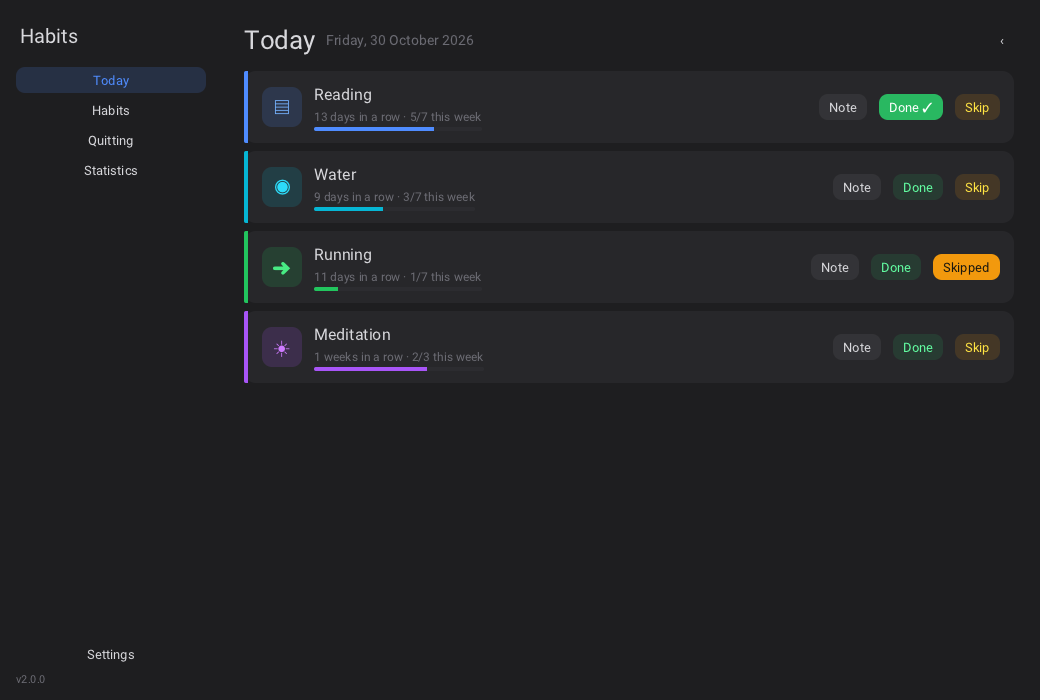
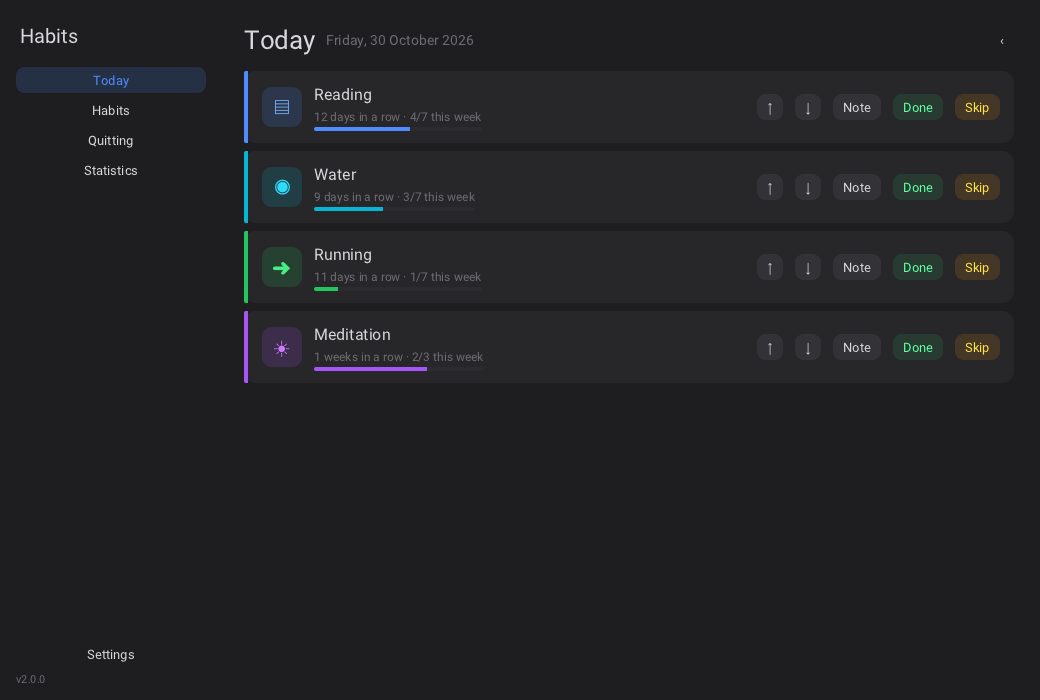
Fix reordering and add it to Today and Quitting
The lists were rendered in the order of the arrays inside the database, so
changing sort_order had no visible effect. They are now sorted, and the move
buttons follow the visible order (Today swaps with its visible neighbour).
Quitting gets its own db_quit_move/db_quit_swap and the same arrows.

Changed region(s): [[0.7692, 0.36, 0.9846, 0.42], [0.8, 0.12, 0.9231, 0.18], [0.4, 0.18, 0.4308, 0.21]]

diff --git a/src/desktop/main.c b/src/desktop/main.c
@@ -396,6 +396,13 @@ static void schedule_text(const Habit *h, char *out, size_t cap) {
     }
 }
 
+static int quit_cmp(const void *a, const void *b) {
+    const Quit *qa = *(const Quit *const *)a;
+    const Quit *qb = *(const Quit *const *)b;
+    if (qa->sort_order != qb->sort_order) return qa->sort_order < qb->sort_order ? -1 : 1;
+    return qa->id < qb->id ? -1 : (qa->id > qb->id ? 1 : 0);
+}
+
 static int habit_cmp(const void *a, const void *b) {
     const Habit *ha = *(const Habit *const *)a;
     const Habit *hb = *(const Habit *const *)b;
@@ -405,6 +412,10 @@ static int habit_cmp(const void *a, const void *b) {
 
 static void on_toggle_done(Rid button, void *ud);
 static void on_note(Rid button, void *ud);
+static void on_today_move_up(Rid button, void *ud);
+static void on_today_move_down(Rid button, void *ud);
+static void on_quit_move_up(Rid button, void *ud);
+static void on_quit_move_down(Rid button, void *ud);
 static void on_toggle_skip(Rid button, void *ud);
 
 static void on_prev_day(Rid b, void *ud) {
@@ -428,6 +439,20 @@ static void on_today(Rid b, void *ud) {
     (void)ud;
     g_app.date = date_today();
     rebuild();
+}
+
+static const Habit **today_sorted(size_t *count) {
+    const Habit **items = xmalloc((g_app.db.nhabits + 1) * sizeof *items);
+    size_t n = 0;
+    for (size_t i = 0; i < g_app.db.nhabits; i++) {
+        Habit *h = &g_app.db.habits[i];
+        if (h->archived) continue;
+        if (!sched_show_in_today(h, g_app.date)) continue;
+        items[n++] = h;
+    }
+    qsort(items, n, sizeof *items, habit_cmp);
+    *count = n;
+    return items;
 }
 
 static Rid habit_row(const Habit *h) {
@@ -471,6 +496,14 @@ static Rid habit_row(const Habit *h) {
     int is_done = entry && entry->status == ENTRY_DONE;
     int is_skipped = entry && entry->status == ENTRY_SKIPPED;
 
+    Rid up = ui_button("↑", on_today_move_up, (void *)(intptr_t)h->id);
+    Rid down = ui_button("↓", on_today_move_down, (void *)(intptr_t)h->id);
+    Rwidget_set_size(up, 26.0f, 26.0f);
+    Rwidget_set_size(down, 26.0f, 26.0f);
+    Rwidget_set_tooltip(up, "Move up");
+    Rwidget_set_tooltip(down, "Move down");
+    add_center(col, up);
+    add_center(col, down);
     add_center(col, ui_button("Note", on_note, (void *)(intptr_t)h->id));
 
     add_center(col, pill_button(is_done ? "Done ✓" : "Done", 0.16f, 0.72f, 0.38f, is_done,
@@ -529,15 +562,8 @@ static void build_today(Rid root) {
         Rwidget_add_child(head, ui_flat_button("Today", on_today, NULL));
     Rwidget_add_child(root, head);
 
-    const Habit **items = xmalloc((g_app.db.nhabits + 1) * sizeof *items);
     size_t n = 0;
-    for (size_t i = 0; i < g_app.db.nhabits; i++) {
-        Habit *h = &g_app.db.habits[i];
-        if (h->archived) continue;
-        if (!sched_show_in_today(h, g_app.date)) continue;
-        items[n++] = h;
-    }
-    qsort(items, n, sizeof *items, habit_cmp);
+    const Habit **items = today_sorted(&n);
 
     Rid scroll = Rwidget_create(R_WIDGET_SCROLL_BOX);
     Rslot_set_fill(scroll, 1.0f);
@@ -596,9 +622,13 @@ static void build_quitting(Rid root) {
     Rwidget_add_child(scroll, list);
 
     int64_t now = now_epoch();
-    for (size_t i = 0; i < g_app.db.nquits; i++) {
-        Quit *q = &g_app.db.quits[i];
-        if (q->archived) continue;
+    Quit **order = xmalloc((g_app.db.nquits + 1) * sizeof *order);
+    size_t nq = 0;
+    for (size_t i = 0; i < g_app.db.nquits; i++)
+        if (!g_app.db.quits[i].archived) order[nq++] = &g_app.db.quits[i];
+    qsort(order, nq, sizeof *order, quit_cmp);
+    for (size_t k = 0; k < nq; k++) {
+        Quit *q = order[k];
 
         Rid content;
         Rid card = ui_card_acc(q->color, &content);
@@ -620,6 +650,14 @@ static void build_quitting(Rid root) {
         Rwidget_add_child(col, ui_muted(best_text, 12.0f));
         add_center(content, col);
         Rwidget_add_child(content, ui_spacer());
+        Rid up = ui_button("↑", on_quit_move_up, (void *)(intptr_t)q->id);
+        Rid down = ui_button("↓", on_quit_move_down, (void *)(intptr_t)q->id);
+        Rwidget_set_size(up, 26.0f, 26.0f);
+        Rwidget_set_size(down, 26.0f, 26.0f);
+        Rwidget_set_tooltip(up, "Move up");
+        Rwidget_set_tooltip(down, "Move down");
+        add_center(content, up);
+        add_center(content, down);
         add_center(content, ui_button("Relapsed", on_quit_reset, (void *)(intptr_t)q->id));
         add_center(content, ui_button("Edit", on_edit_quit, (void *)(intptr_t)q->id));
         add_center(content, ui_danger_button("Delete", on_delete_quit, (void *)(intptr_t)q->id));
@@ -631,6 +669,7 @@ static void build_quitting(Rid root) {
         }
         Rwidget_add_child(list, card);
     }
+    free(order);
     Rwidget_add_child(root, scroll);
 
     if (g_app.quit_timer) Rtimer_destroy(g_app.quit_timer);
@@ -958,6 +997,50 @@ static void on_move_down(Rid button, void *ud) {
     }
 }
 
+static void today_move(int64_t id, int delta) {
+    size_t n = 0;
+    const Habit **items = today_sorted(&n);
+    size_t pos = n;
+    for (size_t i = 0; i < n; i++)
+        if (items[i]->id == id) {
+            pos = i;
+            break;
+        }
+    long target = (long)pos + delta;
+    if (pos != n && target >= 0 && target < (long)n &&
+        db_habit_swap(&g_app.db, id, items[target]->id)) {
+        save_db();
+        rebuild();
+    }
+    free(items);
+}
+
+static void on_today_move_up(Rid button, void *ud) {
+    (void)button;
+    today_move((int64_t)(intptr_t)ud, -1);
+}
+
+static void on_today_move_down(Rid button, void *ud) {
+    (void)button;
+    today_move((int64_t)(intptr_t)ud, 1);
+}
+
+static void on_quit_move_up(Rid button, void *ud) {
+    (void)button;
+    if (db_quit_move(&g_app.db, (int64_t)(intptr_t)ud, -1)) {
+        save_db();
+        rebuild();
+    }
+}
+
+static void on_quit_move_down(Rid button, void *ud) {
+    (void)button;
+    if (db_quit_move(&g_app.db, (int64_t)(intptr_t)ud, 1)) {
+        save_db();
+        rebuild();
+    }
+}
+
 static void on_clear_stats(Rid button, void *ud) {
     (void)button;
     int64_t id = (int64_t)(intptr_t)ud;
@@ -1090,11 +1173,14 @@ static void build_habits(Rid root) {
     Rid list = ui_vbox(8.0f);
     Rwidget_add_child(scroll, list);
 
-    int any = 0;
-    for (size_t i = 0; i < g_app.db.nhabits; i++) {
-        const Habit *h = &g_app.db.habits[i];
-        if (h->archived) continue;
-        any = 1;
+    Habit **order = xmalloc((g_app.db.nhabits + 1) * sizeof *order);
+    size_t nh = 0;
+    for (size_t i = 0; i < g_app.db.nhabits; i++)
+        if (!g_app.db.habits[i].archived) order[nh++] = &g_app.db.habits[i];
+    qsort(order, nh, sizeof *order, habit_cmp);
+    int any = nh > 0;
+    for (size_t k = 0; k < nh; k++) {
+        const Habit *h = order[k];
         Rid content;
         Rid card = ui_card_acc(h->color, &content);
         add_center(content, ui_icon_badge(icon_glyph(h->icon), h->color));
@@ -1122,6 +1208,7 @@ static void build_habits(Rid root) {
         add_center(content, del);
         Rwidget_add_child(list, card);
     }
+    free(order);
     if (!any) Rwidget_add_child(list, ui_muted("No habits yet. Add the first one.", 14.0f));
 
     int archived_count = 0;

diff --git a/src/core/model.c b/src/core/model.c
@@ -196,35 +196,113 @@ static int active_habit_cmp(const void *a, const void *b) {
     return ha->id < hb->id ? -1 : (ha->id > hb->id ? 1 : 0);
 }
 
-bool db_habit_move(DB *db, int64_t id, int delta) {
-    if (delta != -1 && delta != 1) return false;
+static Habit **active_habits_sorted(DB *db, size_t *count) {
     Habit **order = xmalloc((db->nhabits + 1) * sizeof *order);
     size_t n = 0;
     for (size_t i = 0; i < db->nhabits; i++)
         if (!db->habits[i].archived) order[n++] = &db->habits[i];
     qsort(order, n, sizeof *order, active_habit_cmp);
+    *count = n;
+    return order;
+}
 
+static void renumber_habits(Habit **order, size_t n) {
+    for (size_t i = 0; i < n; i++) order[i]->sort_order = (int)(i + 1) * 10;
+}
+
+bool db_habit_move(DB *db, int64_t id, int delta) {
+    if (delta != -1 && delta != 1) return false;
+    size_t n = 0;
+    Habit **order = active_habits_sorted(db, &n);
     size_t pos = n;
     for (size_t i = 0; i < n; i++)
         if (order[i]->id == id) {
             pos = i;
             break;
         }
-    if (pos == n) {
-        free(order);
-        return false;
-    }
     long target = (long)pos + delta;
-    if (target < 0 || target >= (long)n) {
+    if (pos == n || target < 0 || target >= (long)n) {
         free(order);
         return false;
     }
     /* renumber first so equal sort_order values cannot keep the items stuck */
-    for (size_t i = 0; i < n; i++) order[i]->sort_order = (int)(i + 1) * 10;
+    renumber_habits(order, n);
     int tmp = order[pos]->sort_order;
     order[pos]->sort_order = order[target]->sort_order;
     order[target]->sort_order = tmp;
     free(order);
+    return true;
+}
+
+bool db_habit_swap(DB *db, int64_t a, int64_t b) {
+    Habit *ha = db_habit_by_id(db, a);
+    Habit *hb = db_habit_by_id(db, b);
+    if (!ha || !hb || ha->archived || hb->archived) return false;
+    size_t n = 0;
+    Habit **order = active_habits_sorted(db, &n);
+    renumber_habits(order, n);
+    free(order);
+    int tmp = ha->sort_order;
+    ha->sort_order = hb->sort_order;
+    hb->sort_order = tmp;
+    return true;
+}
+
+static int active_quit_cmp(const void *a, const void *b) {
+    const Quit *qa = *(const Quit *const *)a;
+    const Quit *qb = *(const Quit *const *)b;
+    if (qa->sort_order != qb->sort_order) return qa->sort_order < qb->sort_order ? -1 : 1;
+    return qa->id < qb->id ? -1 : (qa->id > qb->id ? 1 : 0);
+}
+
+static Quit **active_quits_sorted(DB *db, size_t *count) {
+    Quit **order = xmalloc((db->nquits + 1) * sizeof *order);
+    size_t n = 0;
+    for (size_t i = 0; i < db->nquits; i++)
+        if (!db->quits[i].archived) order[n++] = &db->quits[i];
+    qsort(order, n, sizeof *order, active_quit_cmp);
+    *count = n;
+    return order;
+}
+
+static void renumber_quits(Quit **order, size_t n) {
+    for (size_t i = 0; i < n; i++) order[i]->sort_order = (int)(i + 1) * 10;
+}
+
+bool db_quit_move(DB *db, int64_t id, int delta) {
+    if (delta != -1 && delta != 1) return false;
+    size_t n = 0;
+    Quit **order = active_quits_sorted(db, &n);
+    size_t pos = n;
+    for (size_t i = 0; i < n; i++)
+        if (order[i]->id == id) {
+            pos = i;
+            break;
+        }
+    long target = (long)pos + delta;
+    if (pos == n || target < 0 || target >= (long)n) {
+        free(order);
+        return false;
+    }
+    renumber_quits(order, n);
+    int tmp = order[pos]->sort_order;
+    order[pos]->sort_order = order[target]->sort_order;
+    order[target]->sort_order = tmp;
+    free(order);
+    return true;
+}
+
+bool db_quit_swap(DB *db, int64_t a, int64_t b) {
+    Quit *qa = db_quit_by_id(db, a);
+    Quit *qb = db_quit_by_id(db, b);
+    if (!qa || !qb || qa->archived || qb->archived) return false;
+    size_t n = 0;
+    Quit **order = active_quits_sorted(db, &n);
+    renumber_quits(order, n);
+    free(order);
+    int tmp = qa->sort_order;
+    qa->sort_order = qb->sort_order;
+    qb->sort_order = tmp;
     return true;
 }
 

diff --git a/tests/test_store.c b/tests/test_store.c
@@ -211,6 +211,36 @@ static void test_habit_move(void) {
     db_free(&db);
 }
 
+static void test_swaps(void) {
+    DB db;
+    db_init(&db);
+    Habit *a = test_add_habit(&db, "a", SCHED_DAILY, 0, 0, "2026-10-01");
+    Habit *b = test_add_habit(&db, "b", SCHED_DAILY, 0, 0, "2026-10-01");
+    Habit *c = test_add_habit(&db, "c", SCHED_DAILY, 0, 0, "2026-10-01");
+    CHECK(a->sort_order < b->sort_order && b->sort_order < c->sort_order);
+
+    CHECK(db_habit_swap(&db, a->id, c->id));
+    CHECK(c->sort_order < b->sort_order && b->sort_order < a->sort_order);
+    CHECK(!db_habit_swap(&db, a->id, 999));
+
+    Quit *q1 = db_quit_add(&db);
+    q1->name = xstrdup("one");
+    Quit *q2 = db_quit_add(&db);
+    q2->name = xstrdup("two");
+    Quit *q3 = db_quit_add(&db);
+    q3->name = xstrdup("three");
+    CHECK(q1->sort_order < q2->sort_order && q2->sort_order < q3->sort_order);
+
+    CHECK(db_quit_move(&db, q3->id, -1));
+    CHECK(q3->sort_order < q2->sort_order);
+    CHECK(!db_quit_move(&db, q1->id, -1));
+
+    CHECK(db_quit_swap(&db, q1->id, q3->id));
+    CHECK(q3->sort_order < q1->sort_order);
+    CHECK(!db_quit_swap(&db, q1->id, 999));
+    db_free(&db);
+}
+
 void test_store(void) {
     test_roundtrip();
     test_tolerates_corruption();
@@ -218,4 +248,5 @@ void test_store(void) {
     test_refuses_newer_schema();
     test_clear_entries();
     test_habit_move();
+    test_swaps();
 }

diff --git a/src/core/model.h b/src/core/model.h
@@ -103,6 +103,10 @@ size_t db_entries_remove_habit(DB *db, int64_t habit_id);
 /* Move an active habit one place up (delta -1) or down (+1) by renumbering
    sort_order. Returns false when it is already at the end. */
 bool db_habit_move(DB *db, int64_t id, int delta);
+/* Swap the places of two active habits (used when moving inside a filtered list). */
+bool db_habit_swap(DB *db, int64_t a, int64_t b);
+bool db_quit_move(DB *db, int64_t id, int delta);
+bool db_quit_swap(DB *db, int64_t a, int64_t b);
 
 /* Field validation; returns false and sets *code / *message. */
 bool habit_validate(Habit *h, const char **code, const char **message);

diff --git a/SPEC.md b/SPEC.md
@@ -63,9 +63,9 @@ Raven не вендорится: `tools/get_raven.sh` клонирует и со
 
 | Экран | Содержимое |
 |---|---|
-| Сегодня | заголовок с датой и стрелками, карточки привычек: иконка, название, серия, прогресс недели; кнопки Note, Done, Skip |
+| Сегодня | заголовок с датой и стрелками, карточки привычек: иконка, название, серия, прогресс недели; кнопки ↑ ↓, Note, Done, Skip |
 | Привычки | список с расписанием; создание и правка в диалоге (название, описание, цвет, иконка, расписание, дни недели, число раз); архив, секция «Archived» с восстановлением и удалением; перемещение ↑/↓ с сохранением `sort_order` |
-| Бросаю | карточки с живым таймером (`дни ЧЧ:ММ:СС`), лучший результат и число попыток; Relapsed с подтверждением, правка, удаление |
+| Бросаю | карточки с живым таймером (`дни ЧЧ:ММ:СС`), лучший результат и число попыток; ↑ ↓, Relapsed с подтверждением, правка, удаление |
 | Статистика | выбор привычки (архивные помечены), периода, карточки «текущая серия / лучшая / процент», heatmap 12 недель; «Clear statistics» (удалить отметки, оставив привычку) и «Delete habit» для архивной |
 | Настройки | путь к данным, версия, переключатели темы и анимаций (сохраняются в `data/ui.conf`), экспорт JSONL в домашний каталог |
 

diff --git a/README.md b/README.md
@@ -18,7 +18,7 @@ plain JSONL file next to it — no browser, no web server, no database.
   best attempt, the number of attempts, and a "relapsed" reset that keeps the
   record.
 - **History**: browse past days with the arrows and mark them there.
-- **Reorder habits** with the ↑ and ↓ buttons on the Habits screen; the order is kept in the file.
+- **Reorder habits** with the ↑ and ↓ buttons on Today, Habits and Quitting; the order is kept in the file.
 - **Archive** instead of deleting. Archived habits are listed on the Habits screen, where they can be restored or deleted for good.
 - **Clear statistics** of any habit from the Statistics screen (the marks go, the habit stays); an archived habit can be deleted right there too.
 - **Export** the whole database as JSONL from Settings.
